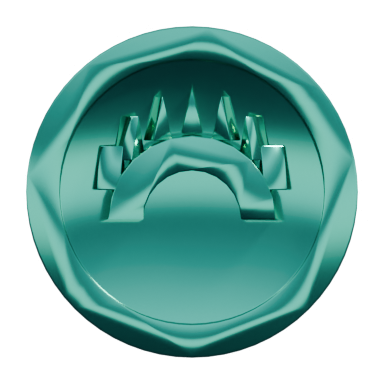
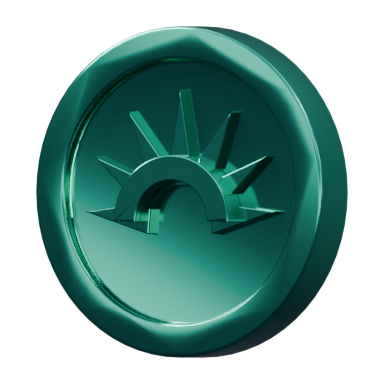
Finish the event token
Three real faults, each found by measuring rather than by nudging.

THE FAN. Euler.rotate_axis turns about the euler's OWN axis, not the
world's, so after the quarter turn about X a "Z" spin of -85 degrees
landed in the Y slot and tipped each ray out of the face instead of
aiming it outwards. Measured, ray zero wanted 5 degrees and its tip came
out at 62. Every version of this crown fanned wrongly for that one
reason. It is a matrix pre-multiply now, the pattern the coin's lean
already used.

THE RIM. The waviness on the outer ring was shading, not shape - the disc
measures round to within the bevel's own width. The shared two-segment
bevel is one flat facet and auto-smoothing it into a 64-sided wall steps
the normals unevenly. Six segments, applied to the disc alone so the
crown's rays, only 0.014 thick, keep their hairline.

THE FACE. A 30 degree auto-smooth blends every edge shallower than that,
which on a struck device means the rays' facets melt into the field and
into each other. At 0.94 metallic the face mirrors the studio, so that
rippling reads as warped material. At 12 degrees only the 64-sided wall
smooths and everything struck keeps its edges.

Presented face to the camera and swung 30 degrees about the screen
vertical. Lying flat at the board's isometric angle was tried: at 26.5
degrees of elevation a device standing 0.03 proud on a 0.17 disc
foreshortens into nothing, and here the device is the object.

diff --git a/tools/blender/render_items.py b/tools/blender/render_items.py
@@ -1659,68 +1659,126 @@ def build_event_token():
     shows whole from above, face and thickness at once.
     """
     radius, thickness = 0.17, 0.042
+    # THE DEVICE SITS LOW ON THE FACE. The arch is centred on the origin but
+    # the rays only rise from it, so the crown's mass lands well above centre
+    # unless the whole thing is dropped. Baked into the placements because
+    # `translate_to` bakes its offset into the mesh and leaves the object's
+    # location at zero - shifting `part.location` afterwards does nothing,
+    # which is why an earlier attempt at measuring the extent and correcting
+    # it had no effect at all.
+    # Face up to the camera, so the crown's up is simply +Y and screen-down
+    # is -Y. Lying flat at the board's isometric angle was tried and does not
+    # work here: at 26.5 degrees of elevation a device standing 0.03 proud on
+    # a 0.17 disc foreshortens into nothing, and the device is the object.
+    CROWN_UP = math.radians(90)
+    CROWN_DROP_X, CROWN_DROP_Y = 0.0, -0.030
     # 64 sides. The credit coins are seen from above where the outline is
     # an ellipse and 24 is plenty; this one is FACE ON, so its outline is a
     # full circle and the polygon shows.
     body = coin(radius, thickness, slot=False, sides=64)
+
+    # THE RIM'S CHAMFER IS THE DISC'S ALONE, applied before anything is
+    # joined. The shared two-segment bevel is one flat facet, and
+    # auto-smoothing that into a 64-sided wall leaves the normals stepping
+    # unevenly round the edge - that is the waviness on the outer ring, not
+    # the silhouette, which measures round to within the bevel's own width.
+    # Six segments make it an actual curve carrying one clean highlight the
+    # whole way round.
+    #
+    # Doing it to the assembled token instead would put the same 0.004 on
+    # the crown, whose rays are only 0.014 thick, and soften a struck device
+    # into an etched one.
+    rim = body.modifiers.new("RimChamfer", 'BEVEL')
+    rim.width, rim.segments = 0.004, 6
+    rim.limit_method, rim.angle_limit = 'ANGLE', SMOOTH_ANGLE
+    rim.use_clamp_overlap = True
+    bpy.ops.object.select_all(action='DESELECT')
+    body.select_set(True)
+    bpy.context.view_layer.objects.active = body
+    bpy.ops.object.modifier_apply(modifier="RimChamfer")
     face = thickness          # the recessed face `coin` leaves inside the rim
 
     # THE ARCH: a half ring standing proud of the face. Built as an annulus
     # with its lower half carved off rather than as a drawn stroke, because
     # here it is a raised band and has to catch the light like one.
-    band = carve(translate_to(disc(0.086, 0.030), (0.0, 0.0, face)),
-                 translate_to(disc(0.050, 0.070), (0.0, 0.0, face - 0.02)))
+    # A SMALLER ARCH than the rays. At 0.090 outer against rays reaching
+    # 0.134 the band covered most of each ray's length, so the fan read as a
+    # row of short teeth above a bridge. Drawn, the arch is a little over
+    # half the crown's radius and the spikes overhang it by a long way -
+    # that overhang IS the fan.
+    band = carve(
+        translate_to(disc(0.068, 0.030, 64), (CROWN_DROP_X, CROWN_DROP_Y, face)),
+        translate_to(disc(0.042, 0.070, 64), (CROWN_DROP_X, CROWN_DROP_Y, face - 0.02)))
     # UP ON A FLAT FACE IS 315 DEGREES, not +Y. The token lies down, so the
     # crown's up has to be the world direction that projects to screen up -
     # measured, not assumed: +X and -Y both come back at screen y +0.316, and
     # the direction between them at +0.447. Built round +Y the crown came out
     # lying on its side.
-    # Face on, the crown's up is simply +Y - none of the flat-face
-    # projection applies once the token is stood square to the camera.
-    up = math.radians(90)
+    up = CROWN_UP
     cutter = cube(0.44, 0.22, 0.14, base=False)
     cutter.rotation_euler.rotate_axis("Z", up - math.radians(270))
     band = carve(band, translate_to(cutter, (
-        -math.cos(up) * 0.11, -math.sin(up) * 0.11, face + 0.010)))
+        -math.cos(up) * 0.11 + CROWN_DROP_X,
+        -math.sin(up) * 0.11 + CROWN_DROP_Y, face + 0.010)))
 
     # SEVEN RAYS over the top half, tapering outwards from the band. Seven
     # over a band reads as one particular object at cell size, where the
     # six-point burst it replaced read as a generic sparkle.
     rays = []
     for i in range(7):
-        # Spread across 140 degrees, not a full 180. At the extremes the
-        # end rays landed exactly on the arch's cut ends and merged into
-        # them, which is what turned the outer two into square stubs.
-        angle = up - math.radians(70) + math.radians(140) * i / 6
-        ray = extrude_profile([(-0.011, 0.0), (0.011, 0.0), (0.0, 0.046)], 0.026)
+        angle = up - math.radians(85) + math.radians(170) * i / 6
+        # The middle spear is the longest and they shorten towards the ends,
+        # the way the drawn crown does. Evenly long rays read as a comb.
+        reach = 0.100 - 0.022 * abs(i - 3) / 3.0
+        # LONG FLAT SPEARS. Two faults at once before this: at 0.026 thick
+        # against 0.022 wide they were square in section, so any ray turned
+        # edge-on read as a rectangular block rather than a ray; and at 0.074
+        # they were short enough to hide behind the arch. Drawn, they are
+        # thin plates reaching well past it - that overhang is the whole
+        # shape.
+        ray = extrude_profile([(-0.017, 0.0), (0.017, 0.0), (0.0, reach)], 0.014)
         # `extrude_profile` builds in x-z and extrudes along y, so a quarter
         # turn about X lays the triangle flat with its thickness in z and its
         # tip pointing +Y. The spin about Z then aims it outwards.
         ray.rotation_euler.rotate_axis("X", math.radians(-90))
-        ray.rotation_euler.rotate_axis("Z", math.radians(math.degrees(angle) - 90))
+        # PRE-MULTIPLIED, not `rotate_axis`. Euler.rotate_axis turns about the
+        # euler's OWN axis, not the world's - after the quarter turn about X
+        # a "Z" spin of -85 degrees landed in the Y slot and tipped the ray
+        # out of the face instead of aiming it outwards. Every version of
+        # this crown fanned wrongly for that one reason: measured, ray zero
+        # wanted 5 degrees and its tip came out at 62.
+        ray.rotation_euler = (
+            Matrix.Rotation(angle - math.pi / 2, 4, Vector((0.0, 0.0, 1.0)))
+            @ ray.rotation_euler.to_matrix().to_4x4()
+        ).to_euler()
         # Based just OUTSIDE the band, and sized so the tips stay INSIDE
         # the recessed face. `coin` wells out to 0.8 of the radius - 0.136 -
         # and rays reaching 0.158 were punching into the rim wall, which is
         # what turned the device into a ring of clipped fragments.
-        translate_to(ray, (math.cos(angle) * 0.088,
-                           math.sin(angle) * 0.088,
-                           face + 0.009))
+        # Rooted OUT AT THE ARCH, not near the middle - at 0.030 all seven
+        # converged on the centre and piled into one lump instead of
+        # radiating. Based at 0.050 they fan out properly, and sitting below
+        # the band's own height the arch hides their roots, which is how the
+        # drawn crown is built. Tips reach 0.134, just inside the recessed
+        # face's 0.136.
+        translate_to(ray, (math.cos(angle) * 0.036 + CROWN_DROP_X,
+                           math.sin(angle) * 0.036 + CROWN_DROP_Y,
+                           face + 0.004))
         rays.append(ray)
 
-    # THE DEVICE CENTRED ON THE FACE. The arch is centred on the origin but
-    # the rays only go upwards, so the crown's visible mass sits well above
-    # it - drawn, the whole device is centred on the coin. Dropping it by a
-    # third of a ray's length puts the mass back in the middle.
-    for part in [band] + rays:
-        part.location.y -= 0.028
     token = stack([body, band] + rays)
 
-    # FACE ON, like the wood knots and for the same reason: this thing's
-    # identity IS the struck device, and the isometric three-quarter
-    # foreshortens the crown into a smear. The credit coins lie flat because
-    # a coin is generic and its face carries almost nothing; here the face is
-    # the entire object.
+    # FACE TO THE CAMERA, then SWUNG. Dead square on, a medallion reads as
+    # a UI icon pasted onto the board; a horizontal turn about the screen's
+    # vertical puts it in the board's space and shows the disc's thickness
+    # down one edge, without foreshortening the crown the way lying flat
+    # does.
     facing_camera(token)
+    view = Euler((math.pi / 2 - ELEVATION, 0.0, AZIMUTH)).to_quaternion()
+    token.rotation_euler = (
+        Matrix.Rotation(math.radians(-30), 4, view @ Vector((0, 1, 0)))
+        @ token.rotation_euler.to_matrix().to_4x4()
+    ).to_euler()
 
     material = tier_material("event-token", EVENT_TOKEN_HEX, EVENT_TOKEN_HEX)
     shader = _shader(material)
@@ -1730,7 +1788,23 @@ def build_event_token():
     shader.inputs["Roughness"].default_value = 0.13
     # A HAIRLINE bevel. At 0.006 it was wider than the rays are thick and
     # melted the whole device into blobs - a struck mark needs its edges.
-    finish(token, "event-token", material, bevel=0.0015)
+    # A TIGHT smooth angle. The shared 30 degrees smooths shading across
+    # every edge shallower than that, which on a struck device means the
+    # rays' own facets blend into the field and into each other - the surface
+    # stops being a set of flat planes and starts rippling, and at 0.94
+    # metallic the face mirrors the studio so the ripple reads as warping.
+    # At 12 only the 64-sided wall, whose facets are 5.6 degrees apart, gets
+    # smoothed; everything struck keeps its edges.
+    finish(token, "event-token", material, bevel=0.0015,
+           smooth_angle=math.radians(12))
+
+    # THE RIM GETS A REAL CHAMFER. The shared two-segment bevel is a single
+    # flat facet, and auto-smoothing that into a 64-sided wall leaves the
+    # normals stepping unevenly round the edge - which is the waviness on the
+    # outer ring. The silhouette was never the problem: it measures round to
+    # within the bevel's own width. Six segments make the chamfer an actual
+    # curve, so it carries one clean highlight the whole way round the way a
+    # struck coin's edge does.
     return {1: token}
 
 
